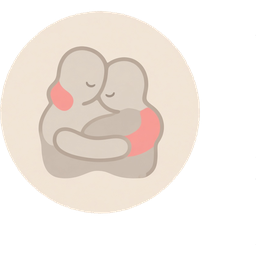
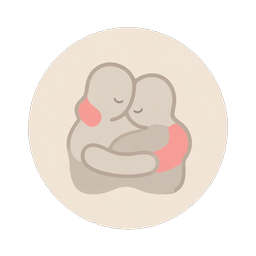
fix: 收窄共鸣翻页失败的影响，并修正抱抱贴纸裁切
- 测试改为显式文件列表，避免引号 glob 在部分环境不展开
- 空列表翻页失败只有待我回应标成整页错误
- 长按防误触改成实例字段；有贴纸的列表行不再写「已回心」
- 抱抱贴纸去掉贴边灰点并留出透明边

diff --git a/src/core/feed.ts b/src/core/feed.ts
@@ -38,6 +38,12 @@ export type FeedOptions<T extends { id: string }, V> = {
    * 不再只把下一页接在末尾。共鸣「我发的」靠它把未回心放到已回心前面。
    */
   sortKey?: (item: T) => number
+  /**
+   * 翻页失败且当前一条都没有时，把整页标成 error。
+   * 只给共鸣「待我回应」开：那一栏会在本页被回心清空后主动接着拉。
+   * 信件、记账、厨房不要开，空列表上的翻页失败仍只标 more:error，避免整页被误判。
+   */
+  pageErrorIfEmpty?: boolean
 }
 
 export class Feed<T extends { id: string }, V> {
@@ -133,13 +139,19 @@ export class Feed<T extends { id: string }, V> {
     const r = await this.opts.fetch(this.cursor)
     this.busy = false
     if (!r.ok) {
-      if (this.raw.length) this.set({ more: 'error' })
-      else this.set({ more: 'idle', status: 'error', errorText: r.message })
+      // 有条目时只让底部「加载更多」失败，信件等列表靠这一行重试。
+      // 共鸣待我回应会在列表已被清空后翻页，那种失败要整页 error，否则会停在 loading。
+      if (!this.raw.length && this.opts.pageErrorIfEmpty) {
+        this.set({ more: 'idle', status: 'error', errorText: r.message })
+      } else {
+        this.set({ more: 'error' })
+      }
       return
     }
     const appended = this.raw.concat(r.data.items)
     this.cursor = r.data.nextCursor
-    // 排序键和接口顺序不一致时（我发的未回优先），整表重排，日期分隔才不会断在错误的邻居上
+    // 排序键和接口顺序不一致时（我发的未回优先），整表重排，日期分隔才不会断在错误的邻居上。
+    // 同时写回 status：待我回应会先把空列表标成 loading 再翻页，成功后要回到 ready 或 empty。
     if (this.opts.sortKey) {
       this.raw = this.arrange(appended)
       this.set({

diff --git a/src/components/report-card/report-card.ts b/src/components/report-card/report-card.ts
@@ -3,18 +3,26 @@
  * 列表只露三信号；detail 为真时展示全文、图和标签。
  * 事件：open（轻触列表行）、more（自己的报备点「⋯」或长按）、quick（待我回应的「回心」或长按）。
  */
-const suppressOpen = new WeakMap<object, number>()
-
-Component({
+Component<
+  WechatMiniprogram.IAnyObject,
+  WechatMiniprogram.IAnyObject,
+  WechatMiniprogram.Component.MethodOption,
+  { _suppressOpenUntil: number }
+>({
   options: { styleIsolation: 'isolated' },
   properties: {
     post: { type: Object, value: {} },
     detail: { type: Boolean, value: false },
   },
+  lifetimes: {
+    created() {
+      this._suppressOpenUntil = 0
+    },
+  },
   methods: {
     onOpen() {
       if (this.data.detail) return
-      if ((suppressOpen.get(this) || 0) > Date.now()) return
+      if (this._suppressOpenUntil > Date.now()) return
       this.triggerEvent('open', { id: this.data.post.id })
     },
     onMore() {
@@ -25,7 +33,7 @@ Component({
       this.triggerEvent('quick', { id: this.data.post.id })
     },
     onLongPress() {
-      suppressOpen.set(this, Date.now() + 400)
+      this._suppressOpenUntil = Date.now() + 400
       if (this.data.detail || !this.data.post.quickReply) {
         this.onMore()
         return

diff --git a/src/pages/resonance/resonance.ts b/src/pages/resonance/resonance.ts
@@ -85,6 +85,8 @@ Component<Data, {}, WechatMiniprogram.Component.MethodOption, Custom, true>({
             },
             view: (post, prev) => reportView(post, prev, filter),
             sortKey: (post) => reportRank(post, filter),
+            // 只有这一栏会在本页被回心清空后接着翻页
+            pageErrorIfEmpty: filter === 'await_me',
           }),
       )
       this.syncUser()
